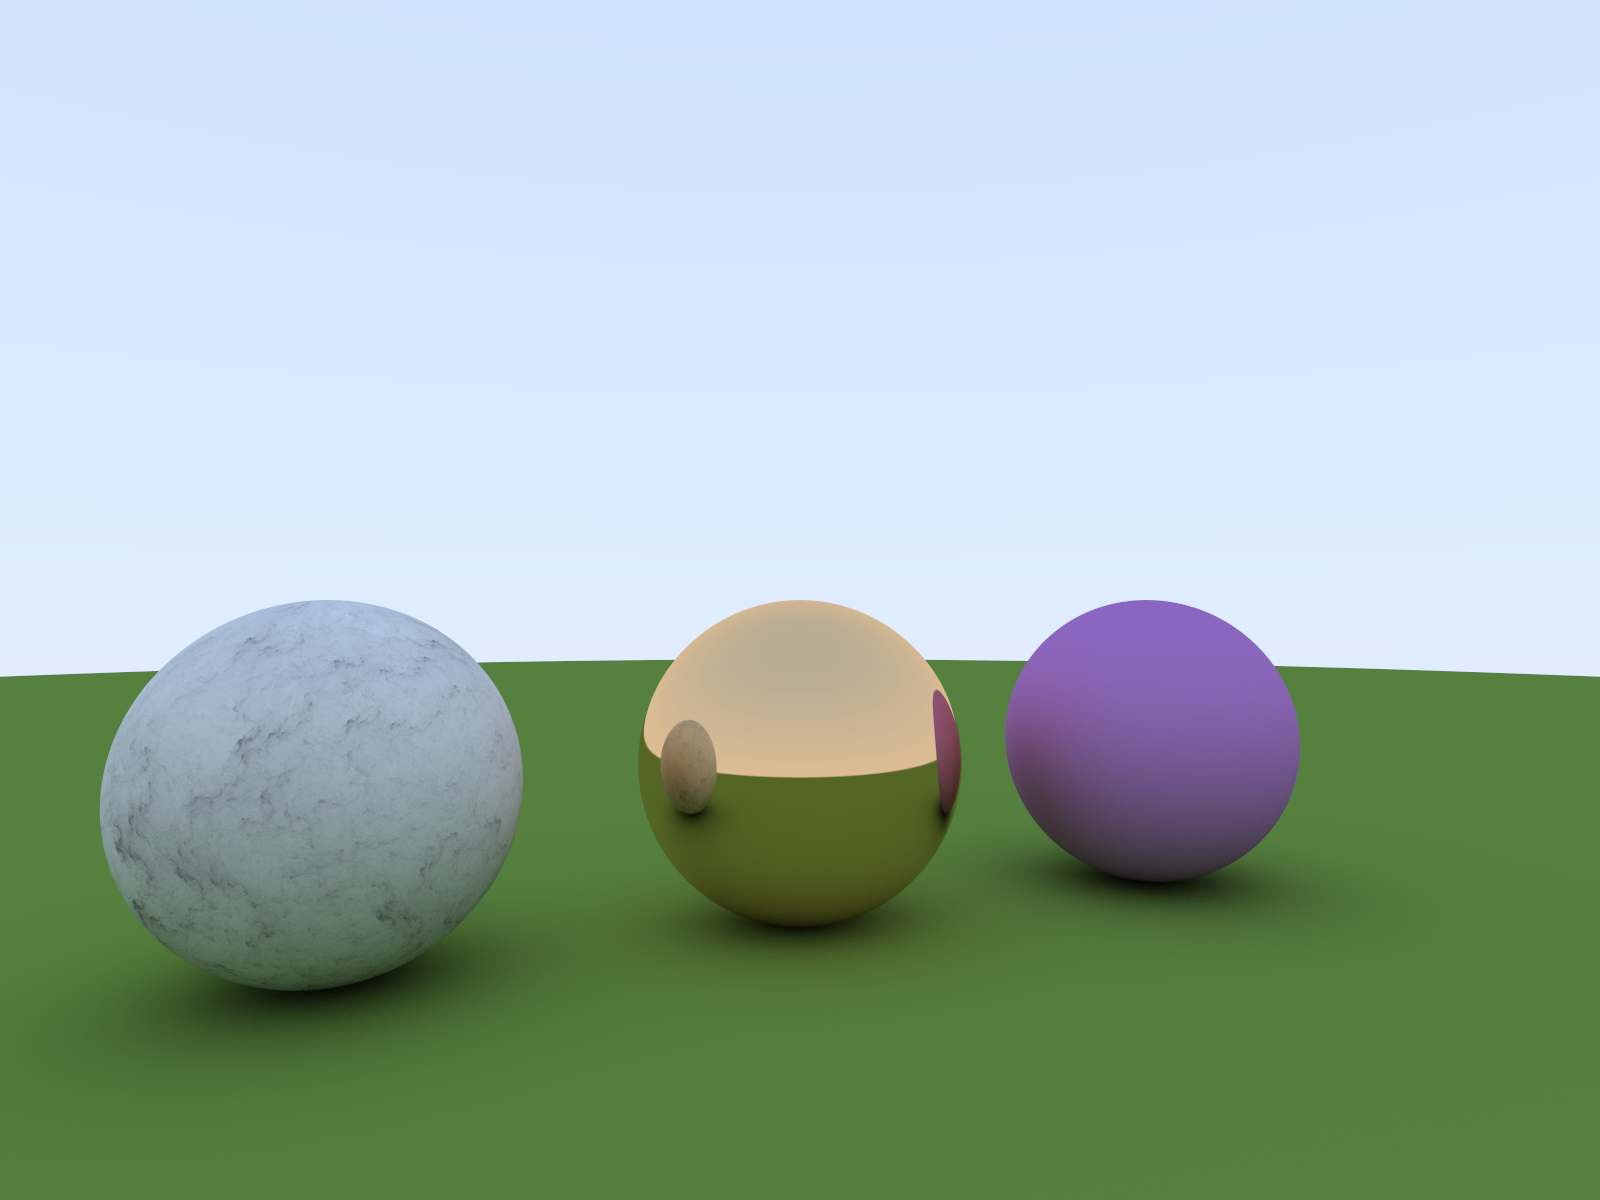
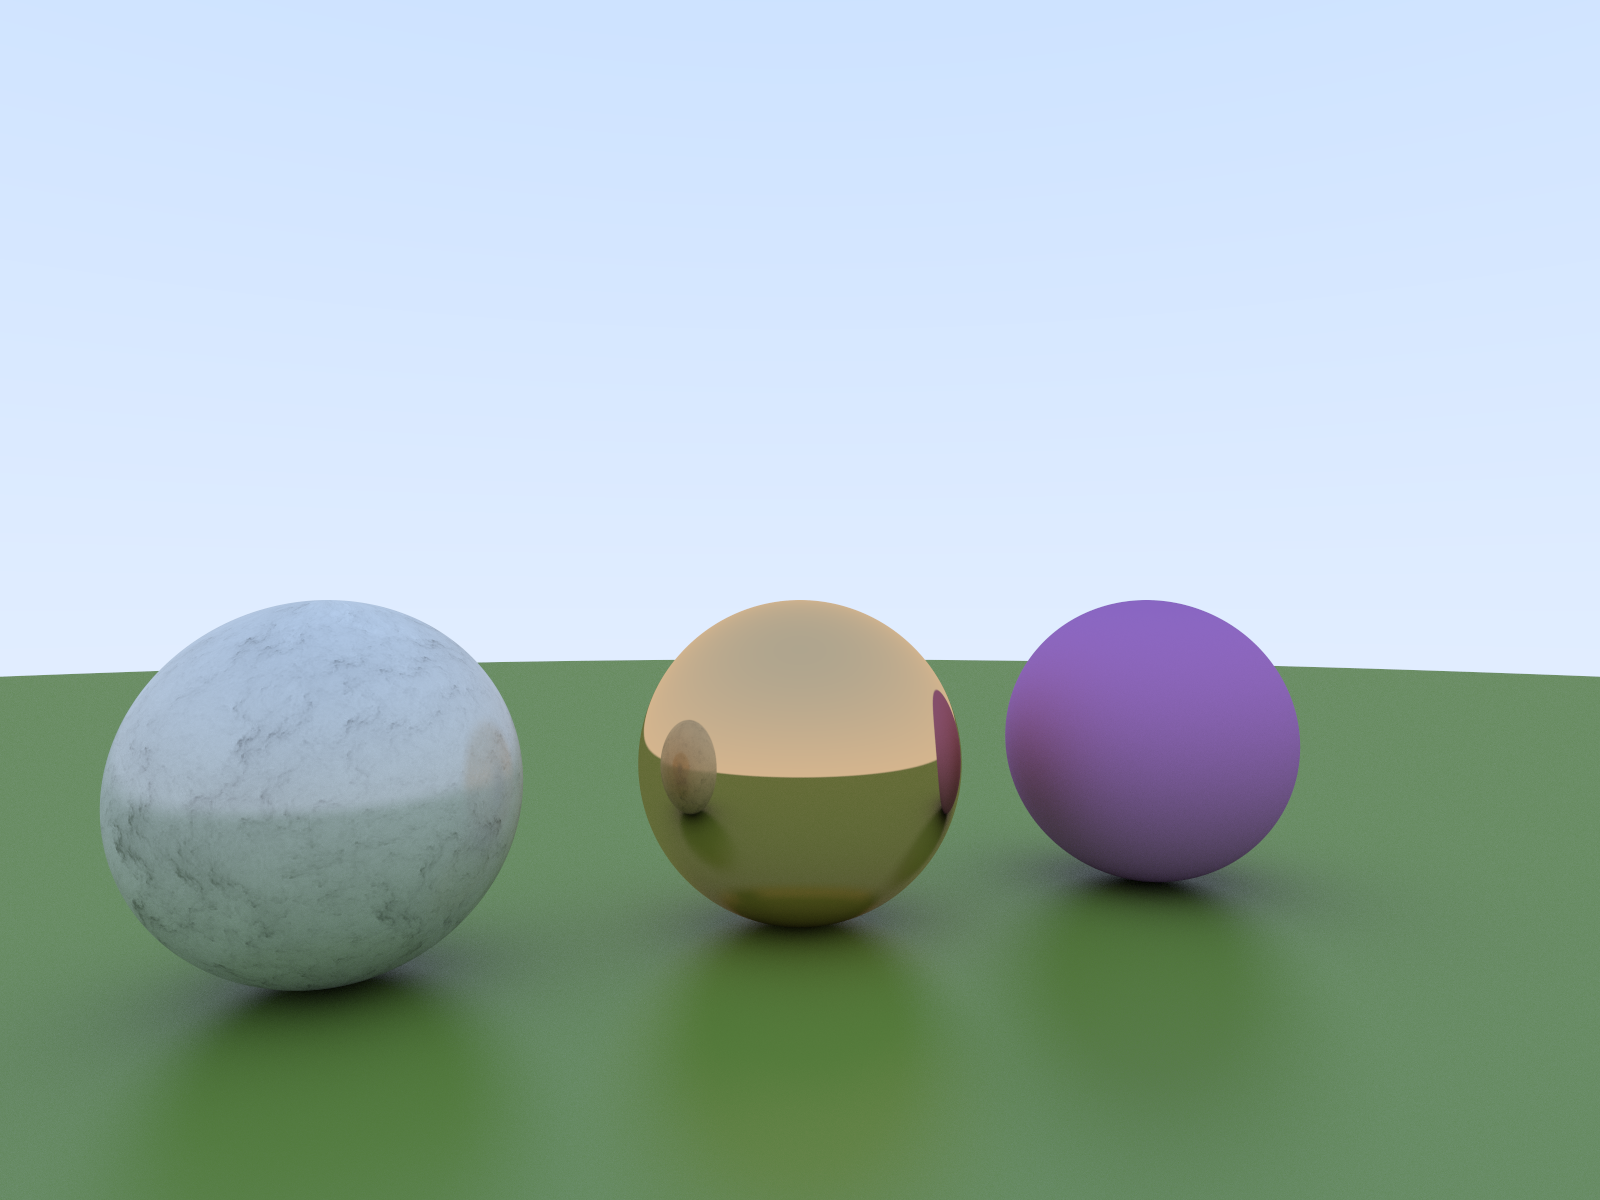
Improve Materials
This commit merges Metal and Diffuse material allowing to control
reflectivity or diffuse levels on material.

Changed region(s): [[0.2188, 0.5242, 1.0, 1.0], [0.0, 0.555, 0.1875, 1.0], [0.125, 0.6475, 0.1875, 0.6783]]

diff --git a/src/material.rs b/src/material.rs
@@ -7,23 +7,17 @@ use std::fmt;
 use std::path::PathBuf;
 
 #[derive(Deserialize, Debug)]
-pub enum Material {
-    DiffuseMaterial(DiffuseMaterial),
-    MetallicMaterial(MetallicMaterial)
-}
-
-#[derive(Deserialize, Debug)]
-pub struct DiffuseMaterial {
+pub struct Material {
+    #[serde(default="Material::default_color")]
     pub color: Coloration,
-    pub albedo: f64
-}
-
-#[derive(Deserialize, Debug)]
-pub struct MetallicMaterial {
+    #[serde(default="Material::default_reflection")]
+    pub reflection: f64,
+    #[serde(default="Material::default_reflection_color")]
+    pub reflection_color: Color,
+    #[serde(default="Material::default_fizziness")]
     pub fizziness: f64,
-
-    #[serde(default="Color::white")]
-    pub color: Color
+    #[serde(default="Material::default_albedo")]
+    pub albedo: f64
 }
 
 #[derive(Deserialize)]
@@ -34,55 +28,32 @@ pub enum Coloration {
         DynamicImage)
 }
 
+enum RayBehavior {
+    Diffuse,
+    Reflect,
+    Refract
+}
+
 impl Default for Material {
-    fn default() -> Material {
-        Material::DiffuseMaterial(
-            DiffuseMaterial {
-                color: Coloration::Color(Color::white()),
-                albedo: 0.1,
-            }
-        )
+    fn default() -> Self {
+
+        Self {
+            color: Self::default_color(),
+            fizziness: Self::default_fizziness(),
+            reflection: Self::default_reflection(),
+            reflection_color: Self::default_reflection_color(),
+            albedo: Self::default_albedo()
+        }
     }
 }
 
 impl Material {
-    pub fn diffuse_multiplier_color(&self, texture_coordinate: &Vector2) -> Color {
-        match self {
-            Material::DiffuseMaterial(ref dm) => dm.color_at(texture_coordinate),
-            Material::MetallicMaterial(ref mm) => mm.color.clone()
-        }
-    }
+    fn default_color() -> Coloration { Coloration::Color(Color::white()) }
+    fn default_fizziness() -> f64 { 0.01 }
+    fn default_reflection() -> f64 { 0.0 }
+    fn default_reflection_color() -> Color { Color::white() }
+    fn default_albedo() -> f64 { 0.08 }
 
-    pub fn get_color(&self, texture_coordinate: &Vector2, light_power: f64, light_color: &Color) -> Color {
-        match self {
-            Material::DiffuseMaterial(ref dm) => dm.get_color(texture_coordinate, light_power, light_color),
-            Material::MetallicMaterial(ref _mm) => Color::black()
-        }
-    }
-
-    pub fn uses_texture(&self) -> bool {
-        match self {
-            Material::DiffuseMaterial(ref dm) => dm.uses_texture(),
-            Material::MetallicMaterial(ref _mm) => false
-        }
-    }
-
-    pub fn albedo(&self) -> f64 {
-        match self {
-            Material::DiffuseMaterial(ref dm) => dm.albedo,
-            Material::MetallicMaterial(ref _mm) => 0.0
-        }
-    }
-
-    pub fn scatter(&self, vec: &Vector3, normal: &Vector3) -> Vector3 {
-        match self {
-            Material::DiffuseMaterial(ref dm) => dm.scatter(vec, normal),
-            Material::MetallicMaterial(ref mm) => mm.scatter(vec, normal)
-        }
-    }
-}
-
-impl DiffuseMaterial {
     pub fn get_color(&self, texture_coordinate: &Vector2, light_power: f64, light_color: &Color) -> Color {
         let light_reflected = self.albedo / ::std::f64::consts::PI;
 
@@ -96,18 +67,36 @@ impl DiffuseMaterial {
         }
     }
 
-    pub fn scatter(&self, _vec: &Vector3, normal: &Vector3) -> Vector3 {
-        normal.add(&Vector3::random_unit())
+    pub fn scatter(&self, rand: f64, vec: &Vector3, normal: &Vector3) -> Vector3 {
+        match self.detect_behavior(rand) {
+            RayBehavior::Diffuse => normal.add(&Vector3::random_unit()),
+            RayBehavior::Reflect => {
+                vec.reflect(normal).add(&Vector3::random_unit().multiply(self.fizziness))
+            },
+            RayBehavior::Refract => Vector3::zero()
+        }
+    }
+
+    pub fn diffuse_color(&self, rand: f64, texture_coordinate: &Vector2) -> Color {
+        match self.detect_behavior(rand) {
+            RayBehavior::Diffuse => self.color_at(texture_coordinate),
+            RayBehavior::Reflect => self.reflection_color.clone(),
+            RayBehavior::Refract => Color::white()
+        }
     }
 
     pub fn color_at(&self, coords: &Vector2) -> Color {
         self.color.color_at(&coords)
     }
-}
 
-impl MetallicMaterial {
-    pub fn scatter(&self, vec: &Vector3, normal: &Vector3) -> Vector3 {
-        vec.reflect(normal).add(&Vector3::random_unit().multiply(self.fizziness))
+    fn detect_behavior(&self, rand: f64) -> RayBehavior {
+        if rand < self.reflection {
+            RayBehavior::Reflect
+        // } else if 1 - rand < self.refraction {
+        //     RayBehavior::Refract
+        } else {
+            RayBehavior::Diffuse
+        }
     }
 }
 

diff --git a/src/scene.rs b/src/scene.rs
@@ -5,6 +5,7 @@ use intersection::Intersection;
 use ray::Ray;
 use color::Color;
 use camera::Camera;
+use rand::prelude::*;
 
 #[derive(Deserialize, Debug)]
 pub struct Scene {
@@ -26,6 +27,7 @@ impl Scene {
 
     pub fn get_color(&self, ray: &Ray, diffuse_depth: u32) -> Color {
         let mut color = Color::black();
+        let mut rng = thread_rng();
         let bg_start_color = Color { r: 1.0, g: 1.0 , b: 1.0 };
         let bg_end_color = Color { r: 0.5, g: 0.7 , b: 1.0 };
 
@@ -66,15 +68,16 @@ impl Scene {
                 }
 
                 if diffuse_depth > 0 {
-                    let diffuse_multiplier_color = material.diffuse_multiplier_color(&texture_coords);
-                    let diffuse_vector = material.scatter(&ray.direction, &object.surface_normal(&hit_point));
+                    let rand = rng.gen();
+                    let diffuse_multiplier_color = material.diffuse_color(rand, &texture_coords);
+                    let diffuse_vector = material.scatter(rand, &ray.direction, &object.surface_normal(&hit_point));
 
                     let diffuse_ray = Ray {
                         origin: hit_point.clone(),
                         direction: diffuse_vector.normalize()
                     };
 
-                    let diffuse_color = self.get_color(&diffuse_ray, diffuse_depth - 1).multiply(1.0 - material.albedo());
+                    let diffuse_color = self.get_color(&diffuse_ray, diffuse_depth - 1).multiply(1.0 - material.albedo);
 
                     color = color.add_color(
                         &diffuse_multiplier_color.multiply_color(&diffuse_color)

diff --git a/README.md b/README.md
@@ -11,7 +11,7 @@ It's heavily inspired by
 * **Diffuse iterations:** 4
 * **Light sources:** 2
 * **Processor:** 2.9 GHz Intel Core i7
-* **Render Time:** 581 seconds
+* **Render Time:** 618 seconds
 
 ![Render result](https://raw.githubusercontent.com/mightykho/raytracer/master/app/out.png)
 ----
@@ -21,7 +21,7 @@ It's heavily inspired by
 * **Diffuse iterations:** 4
 * **Light sources:** 0
 * **Processor:** 2.9 GHz Intel Core i7
-* **Render Time:** 102 seconds
+* **Render Time:** 106 seconds
 
 ![Render result](https://raw.githubusercontent.com/mightykho/raytracer/master/app/out2.png)
 
